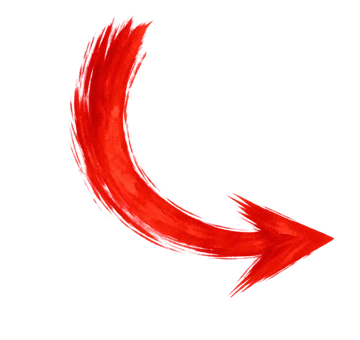
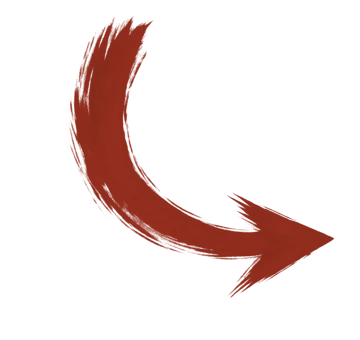
fix(ui): power bar, announcement timer, pinned dialog close, rotate hint
The power bar keeps the last shot's power until a human turn starts and
each Song Đấu seat keeps its own setting. Announcements get a small ink
close mark and a vermilion hairline that shows the time left. Dialogs
that scroll themselves keep their close disc pinned in the corner. The
rotate hint arrow is vermilion and the phone turns the way it points.

Changed region(s): [[0.1833, 0.0588, 0.9167, 0.8824]]

diff --git a/src/ui/screens/match-screen.ts b/src/ui/screens/match-screen.ts
@@ -4,7 +4,7 @@ import type { AiRequest } from '../../ai/types';
 import { sound } from '../../audio/sound';
 import { preloadMatch } from '../../platform/preload';
 import { ballCss } from '../../core/ball-styles';
-import { MODE_NAMES } from '../../core/rules';
+import { MODE_NAMES, raceName } from '../../core/rules';
 import { other, type Resolution, type ShotCall, type Side } from '../../core/rules/types';
 import { Rng } from '../../core/rng';
 import { type SkillDef, champion, classInfo, cutoutUrl, exprUrl, portraitUrl, sect, sectArtUrl, skillIconUrl, winUrl } from '../../game/content/sects';
@@ -105,6 +105,10 @@ export function matchScreen(opts: MatchOptions) {
     const aim = { angle: 0, side: 0, vert: 0, elevation: 0 };
     /** Power the player set on the power bar; a tap on ĐÁNH shoots with it. */
     let preset = 0.55;
+    // Each seat keeps its own bar setting (Song Đấu), and the bar keeps showing the last shot's
+    // power while the balls roll: it only returns to a player's setting when their turn starts.
+    const presets: [number, number] = [0.55, 0.55];
+    let heldPower: number | null = null;
     let barActive = false;
     /** Live charge (hold ĐÁNH) or the shot in flight. */
     let power = 0;
@@ -509,7 +513,7 @@ export function matchScreen(opts: MatchOptions) {
           ...(second === undefined ? [] : [h('span.mx-next-then', null, '›'), miniBall(second), String(second)]),
         ]));
       } else nextBall.hidden = true;
-      objKicker.textContent = desk ? desk.plate().kicker : solo ? opts.label : `${MODE_NAMES[match.setup.mode]} · chạm ${match.setup.raceTo} · ván ${match.rackNo}`;
+      objKicker.textContent = desk ? desk.plate().kicker : solo ? opts.label : `${MODE_NAMES[match.setup.mode]} · ${raceName(match.setup.raceTo)} · ván ${match.rackNo}`;
       objText.textContent = desk ? desk.plate().text : opts.challenge ? opts.challenge.goal : match.setup.mode === 'carom-3c' ? 'Chạm bi thứ nhất, đủ 3 băng trước bi thứ hai.' : match.objective();
       renderSkills();
       desk?.render();
@@ -646,13 +650,13 @@ export function matchScreen(opts: MatchOptions) {
         return;
       }
       heraldOn = true;
-      showHerald(m, false);
       const len = m.title.length + (m.line?.length ?? 0);
       // Shorter while more news waits.
       const ms = m.ms ?? Math.min(4200, 1600 + len * 30) * (heraldQ.length ? 0.7 : 1);
+      showHerald(m, false, ms);
       heraldTimer = window.setTimeout(nextHerald, ms);
     }
-    function showHerald(m: HeraldMsg, thinking: boolean) {
+    function showHerald(m: HeraldMsg, thinking: boolean, ms = 0) {
       const face = m.side !== null
         ? h('img.mx-h-face', { src: m.expr ? exprUrl(champOf(m.side), m.expr) : portraitUrl(champOf(m.side)), alt: '', draggable: false })
         : h('span.mx-h-icon', null, icon(m.icon ?? 'info'));
@@ -660,9 +664,10 @@ export function matchScreen(opts: MatchOptions) {
       heraldEl.replaceChildren(face,
         h('div.mx-h-text', null, h('div.mx-h-title', null, m.title), m.line ? h('div.mx-h-line', null, m.line) : null),
       );
-      // Any tap closes an announcement; the cross says so.
+      // Any tap closes an announcement; the cross says so and the hairline shows the time left.
       if (thinking) heraldEl.append(icon('thinking', 'mx-h-think'));
-      else heraldEl.append(h('button.mx-h-close', { type: 'button', 'aria-label': 'Đóng thông báo' }));
+      else heraldEl.append(h('button.mx-h-close', { type: 'button', 'aria-label': 'Đóng thông báo' }, icon('close')),
+        h('i.mx-h-timer', { style: `--ms:${Math.round(ms)}ms`, 'aria-hidden': 'true' }));
       center.classList.add('heralding');
     }
     // Any touch, click or key dismisses the current announcement: the player is acting, and the
@@ -1072,6 +1077,7 @@ export function matchScreen(opts: MatchOptions) {
       }
       strikePull = pw;
       strikeT = 0.0001;
+      if (match.current.kind === 'human') presets[match.turn] = preset;
       const ct = match.callType();
       const call = aiShotCall !== undefined ? aiShotCall : ct === 'none' ? null : { ball: callBallId() ?? 8, pocket: callPocket ?? 0 };
       firedCall = call;
@@ -1251,6 +1257,7 @@ export function matchScreen(opts: MatchOptions) {
     // ---------- Power bar: drag to set the power ----------
     let barId: number | null = null;
     const setPreset = (v: number) => {
+      heldPower = null;
       preset = Math.max(0.05, Math.min(1, v));
       const lvl = Math.floor(preset * 10);
       if (lvl !== lastTick) {
@@ -1362,8 +1369,8 @@ export function matchScreen(opts: MatchOptions) {
         } else {
           if (e.code === 'ArrowLeft') rotate(-fine);
           if (e.code === 'ArrowRight') rotate(fine);
-          if (e.code === 'ArrowUp' && canAct()) preset = Math.min(1, preset + 0.05);
-          if (e.code === 'ArrowDown' && canAct()) preset = Math.max(0.05, preset - 0.05);
+          if (e.code === 'ArrowUp' && canAct()) setPreset(preset + 0.05);
+          if (e.code === 'ArrowDown' && canAct()) setPreset(preset - 0.05);
         }
         if (e.code === 'Tab' && canAct()) {
           e.preventDefault();
@@ -1597,6 +1604,8 @@ export function matchScreen(opts: MatchOptions) {
       } else {
         aim.side = 0;
         aim.vert = 0;
+        heldPower = null;
+        preset = presets[side];
         updateSpinDot();
         aimFirstTarget();
         if (match.canMoveCue) {
@@ -2106,6 +2115,7 @@ export function matchScreen(opts: MatchOptions) {
         strikeT += dt / 0.09;
         if (strikeT >= 1.6) {
           strikeT = 0;
+          heldPower = strikePull;
           power = 0;
           renderControls();
         }
@@ -2134,7 +2144,7 @@ export function matchScreen(opts: MatchOptions) {
       placeCallTag();
       view.update(dt, av);
       // Power UI: the live charge while swinging, otherwise the set power.
-      const shown = strikeT > 0 ? strikePull : charging ? power : preset;
+      const shown = strikeT > 0 ? strikePull : charging ? power : heldPower ?? preset;
       const pk = `${Math.round(shown * 100)}|${charging}`;
       if (pk !== powerKey) {
         powerKey = pk;

diff --git a/src/styles/skin.css b/src/styles/skin.css
@@ -787,7 +787,7 @@ body.playing .bd-scene, body.playing .bd-mist { animation-play-state: paused; }
 #ui .mx-herald {
   inset: auto; left: 50%; top: 42%; translate: -50% -50%;
   width: min(480px, 62%); min-height: 80px;
-  padding: 16px 62px 16px 46px; gap: 12px;
+  padding: 16px 62px 22px 46px; gap: 12px;
   z-index: 20; pointer-events: none; isolation: isolate;
   background: none; border: 0; border-radius: 0; box-shadow: none;
   color: var(--ink);
@@ -798,9 +798,20 @@ body.playing .bd-scene, body.playing .bd-mist { animation-play-state: paused; }
   filter: drop-shadow(0 4px 10px rgba(40, 30, 18, 0.22));
 }
 #ui .mx-herald.show { animation: mx-herald-brush 0.38s var(--ease) both; }
-#ui .mx-h-close { position: absolute; top: 50%; right: 14px; translate: 0 -50%; width: 34px; height: 34px; min-width: 0; min-height: 0; padding: 0; border-radius: 50%; background: url('/art/ui/frame/close-seal.webp') center / contain no-repeat; box-shadow: none; pointer-events: auto; }
-/* A wider invisible hit area keeps the 44 px touch target without a bigger seal. */
-#ui .mx-h-close::after { content: ''; position: absolute; inset: -6px; }
+/* The close mark is a small ink cross in the strip's top corner, quiet next to the message;
+   any tap closes the announcement anyway. */
+#ui .mx-h-close { position: absolute; top: 13px; right: 40px; width: 22px; height: 22px; min-width: 0; min-height: 0; padding: 0; border: 0; border-radius: 0; background: none; box-shadow: none; opacity: 0.7; pointer-events: auto; }
+#ui .mx-h-close .ico { width: 100%; height: 100%; }
+/* A wider invisible hit area keeps the 44 px touch target. */
+#ui .mx-h-close::after { content: ''; position: absolute; inset: -11px; }
+/* Time left: a vermilion brush hairline along the foot of the paper that draws back to nothing. */
+#ui .mx-h-timer {
+  position: absolute; left: 50px; right: 50px; bottom: 17px; height: 2px; border-radius: 1px;
+  background: linear-gradient(90deg, transparent, var(--accent) 14%, var(--accent) 86%, transparent);
+  opacity: 0.7; transform-origin: left center; pointer-events: none;
+  animation: mx-h-timer var(--ms, 3000ms) linear forwards;
+}
+@keyframes mx-h-timer { from { transform: scaleX(1); } to { transform: scaleX(0); } }
 #ui .mx-herald.leaving { display: flex; animation: mx-herald-out 0.26s ease both; }
 @keyframes mx-herald-brush { from { opacity: 0; clip-path: inset(0 100% 0 0); } to { opacity: 1; clip-path: inset(0); } }
 @keyframes mx-herald-out { to { opacity: 0; transform: translateY(-6px); } }
@@ -816,6 +827,7 @@ body.playing .bd-scene, body.playing .bd-mist { animation-play-state: paused; }
 .mx-herald.thinking .mx-h-think { width: 28px; height: 28px; }
 @media (prefers-reduced-motion: reduce) {
   #ui .mx-herald.show, #ui .mx-herald.leaving { animation: none; }
+  #ui .mx-h-timer { display: none; }
 }
 
 /* The close button sits over the top-right corner; keep the picker's note clear of it. */

diff --git a/src/styles/screens.css b/src/styles/screens.css
@@ -118,6 +118,9 @@ textarea.code-box:focus { border-color: var(--accent); }
 /* Modal close disc in the corner; titles leave room for it. */
 .modal .close-x { position: absolute; top: 10px; right: 10px; z-index: 3; }
 .modal > h2:first-child { padding-right: 48px; }
+/* A box that scrolls itself keeps its close disc pinned in the corner (dom.ts puts it first). */
+.modal.scroll > .close-x:first-child { position: sticky; top: 4px; right: auto; align-self: flex-end; margin-bottom: -54px; }
+.modal.scroll > .close-x:first-child + h2 { padding-right: 48px; }
 .modal p { font-size: var(--fs-m); line-height: 1.55; color: var(--ink-2); }
 
 .kv-list { display: flex; flex-direction: column; }
@@ -853,17 +856,19 @@ body.vp-rotate .rotate-hint, body.vp-resize .size-hint { display: flex; }
   box-shadow: 0 24px 60px rgba(0, 0, 0, 0.5);
   text-align: center;
 }
-.rh-stage { position: relative; width: 230px; height: 230px; display: grid; place-items: center; }
-.rh-phone { height: 200px; width: auto; filter: drop-shadow(0 10px 16px rgba(26, 23, 19, 0.3)); animation: rh-turn 3.4s var(--ease) infinite; }
-.rh-arrow { position: absolute; left: -10px; top: 10px; width: 92px; animation: rh-arrow 3.4s ease-in-out infinite; }
-@keyframes rh-turn { 0%, 18% { rotate: 0deg; } 46%, 84% { rotate: 90deg; } 100% { rotate: 0deg; } }
-@keyframes rh-arrow { 0%, 6% { opacity: 0; } 16%, 46% { opacity: 1; } 60%, 100% { opacity: 0; } }
+/* The brush arrow sweeps down the left and out to the right, so the phone turns the same way
+   (counter-clockwise) inside it; the arrow sits by its lower-left corner, behind it, as the path of the turn. */
+.rh-stage { position: relative; width: 260px; height: 230px; display: grid; place-items: center; }
+.rh-phone { position: relative; z-index: 1; height: 190px; width: auto; filter: drop-shadow(0 10px 16px rgba(26, 23, 19, 0.3)); animation: rh-turn 3.4s var(--ease) infinite; }
+.rh-arrow { position: absolute; z-index: 0; left: 0; top: 96px; width: 118px; opacity: 0.85; animation: rh-arrow 3.4s ease-in-out infinite; }
+@keyframes rh-turn { 0%, 18% { rotate: 0deg; } 46%, 84% { rotate: -90deg; } 100% { rotate: 0deg; } }
+@keyframes rh-arrow { 0%, 6% { opacity: 0; } 16%, 46% { opacity: 0.85; } 60%, 100% { opacity: 0; } }
 .rh-copy { display: flex; flex-direction: column; gap: 8px; }
 .rh-title { font: 800 30px/1.15 var(--display); color: var(--ink); }
 .rh-sub { font-size: var(--fs-l); line-height: 1.5; color: var(--ink-2); }
 @media (prefers-reduced-motion: reduce) {
-  .rh-phone { animation: none; rotate: 90deg; }
-  .rh-arrow { animation: none; opacity: 1; }
+  .rh-phone { animation: none; rotate: -90deg; }
+  .rh-arrow { animation: none; opacity: 0.85; }
 }
 .vp-icon { width: 68px; height: 68px; display: grid; place-items: center; border-radius: 50%; background: var(--sheet-2); box-shadow: inset 0 0 0 1.5px var(--line-2); }
 .vp-icon .ico { width: 42px; height: 42px; }

diff --git a/src/ui/screens/codex.ts b/src/ui/screens/codex.ts
@@ -49,6 +49,7 @@ function landPage(app: App, id: SectId, page?: DetailPage, direction = 1) {
   const cues = CUES.filter((c) => c.sect === id);
   const omen = OMEN_INFO[id];
   const build = (close: () => void) => h('div.modal.codex-page.scroll', { style: `--sect:${hex6(s.main)}` },
+    closeX(close),
     h('img.codex-banner', { src: sectArtUrl(id, 'splash'), alt: '', onerror: (e: Event) => (e.target as HTMLElement).remove() }),
     h('div.cp-head', null, h('img', { src: sectArtUrl(id, 'emblem'), alt: '' }), h('h2', null, s.name)),
     h('p.prose-p', null, LORE.sects[id]),
@@ -61,10 +62,9 @@ function landPage(app: App, id: SectId, page?: DetailPage, direction = 1) {
     h('h3.section-title', null, `Linh Đài · Thiên Tượng: ${omen.name}`),
     h('div.cp-table', null, tablePreview(table), h('p', null, `${table.desc} ${omen.desc}`)),
     statRows(tableStats(table)),
-    h('h3.section-title', null, 'Cơ của môn phái'),
+    h('h3.section-title', null, 'Pháp Cơ của môn phái'),
     ...cues.map((c) => h('div.cp-cue', null, h('b', null, c.name), cueArtEl(c), statRows(cueStats(c)))),
     h('div.actions', null, ...detailButtons(index, entries.length, navigate), btn('Đóng', close, 'ghost')),
-    closeX(close),
   );
   page = showDetail(build, page, direction, navigate);
 }
@@ -89,6 +89,7 @@ export function champPage(app: App, c: Champion, page?: DetailPage, direction = 
       h('img.win', { src: winUrl(c.id), alt: '', loading: 'lazy' }))
     : h('p.locked-note', null, 'Chiêu mộ tướng này (thắng ở Hành trình hoặc mua trong Tàng Các) để mở bộ tranh đầy đủ.');
   const build = (close: () => void) => h('div.modal.codex-page.scroll', { style: `--sect:${hex6(sect(c.sect).main)}` },
+    closeX(close),
     h('div.codex-champ', null,
       h('div.cc-cut', null, h('img', { src: cutoutUrl(c.id), alt: '' })),
       h('div.grow', null,
@@ -105,7 +106,6 @@ export function champPage(app: App, c: Champion, page?: DetailPage, direction = 
     h('h3.section-title', null, 'Tranh'),
     gallery,
     h('div.actions', null, ...detailButtons(index, entries.length, navigate), btn('Đóng', close, 'ghost')),
-    closeX(close),
   );
   page = showDetail(build, page, direction, navigate);
 }

diff --git a/src/ui/dom.ts b/src/ui/dom.ts
@@ -115,6 +115,10 @@ export function modal(build: (close: () => void) => HTMLElement, opts: { dismiss
   };
   wrap.addEventListener('modal-back', () => { if (opts.backDismissable !== false) close(); });
   const box = build(close);
+  // In a box that scrolls itself, the close disc goes first so CSS can pin it to the corner;
+  // as the last child it would scroll away with the content.
+  const x = box.classList.contains('scroll') ? box.querySelector(':scope > .close-x') : null;
+  if (x) box.prepend(x);
   wrap.append(box);
   if (opts.dismissable) {
     wrap.addEventListener('pointerdown', (e) => {
